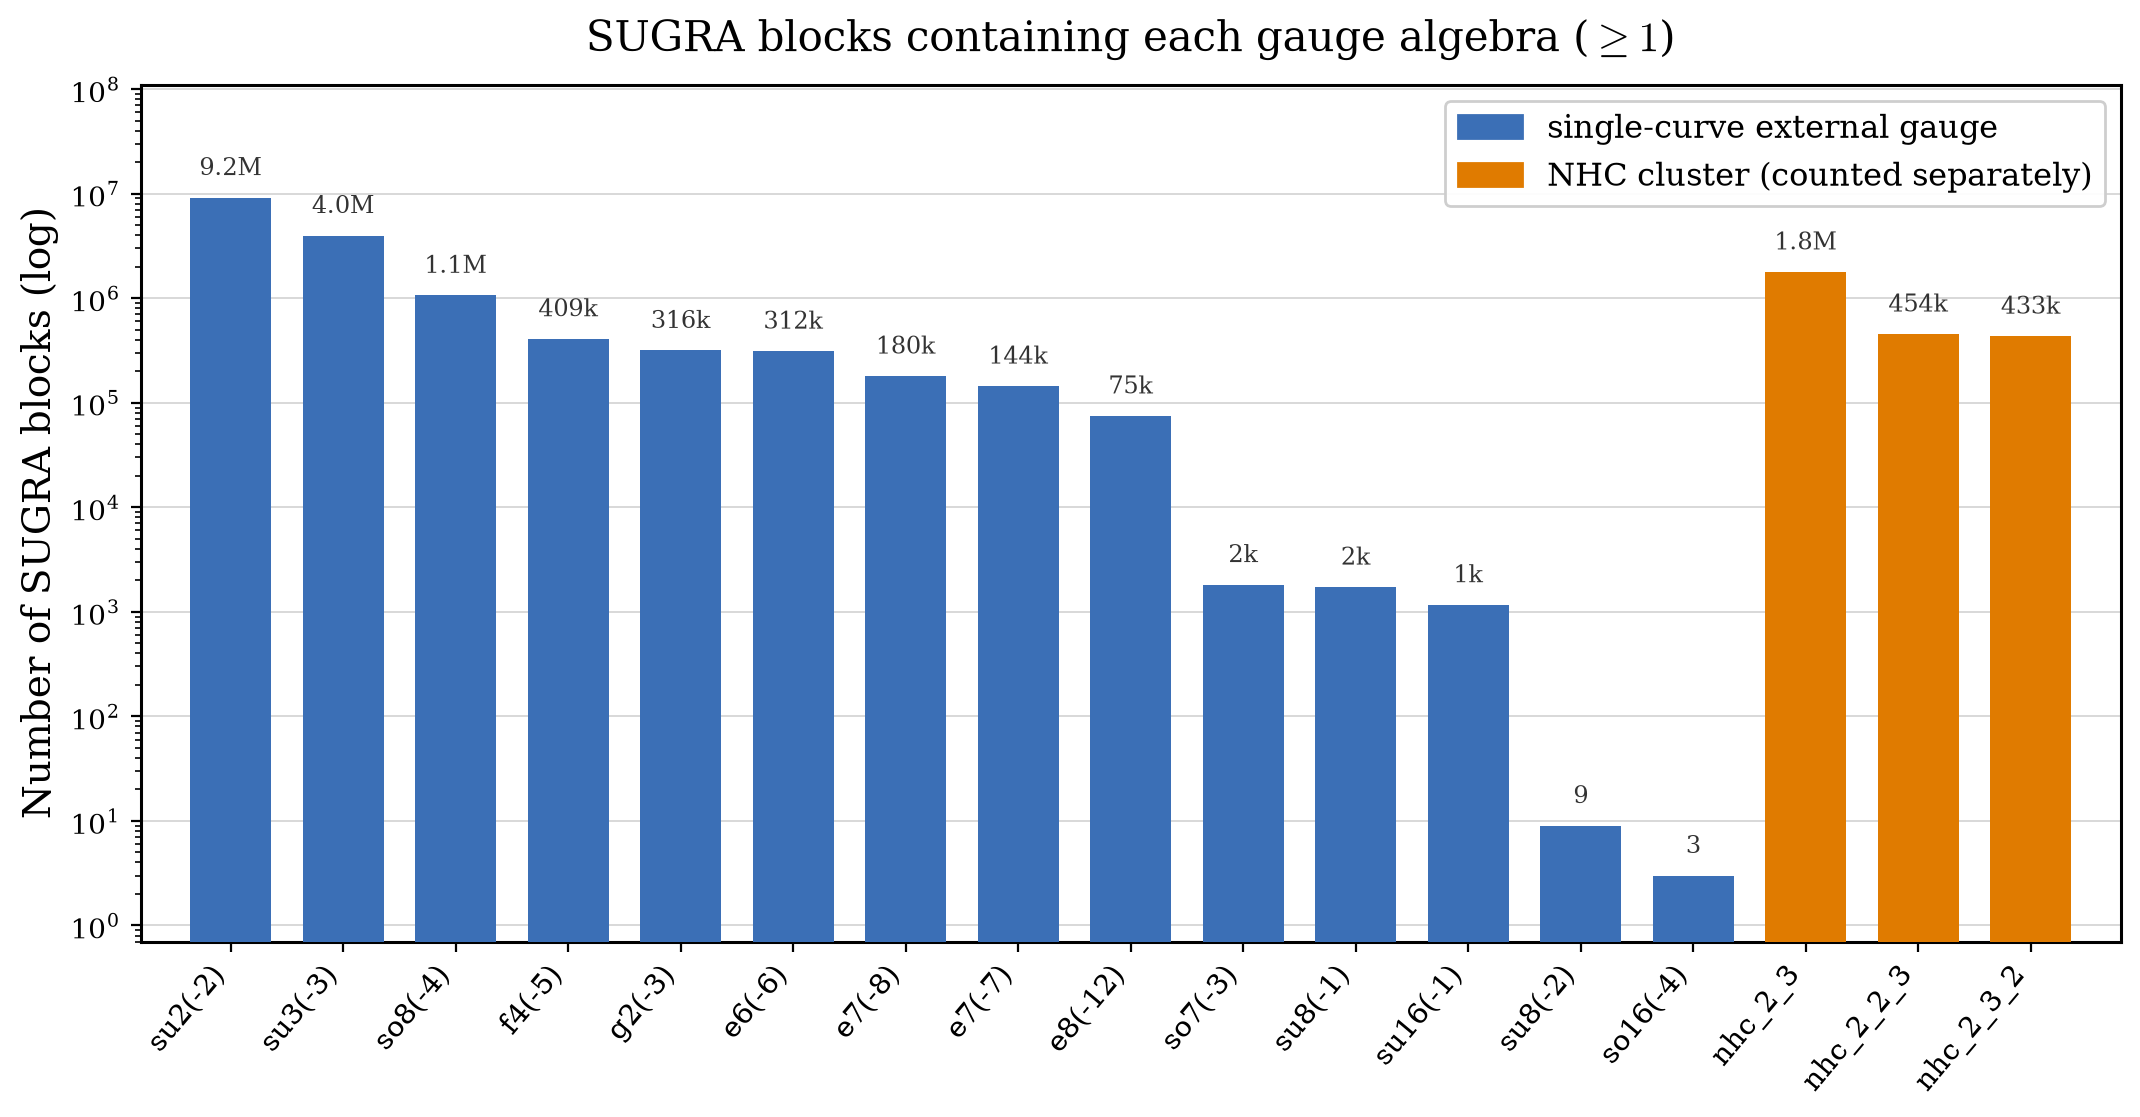
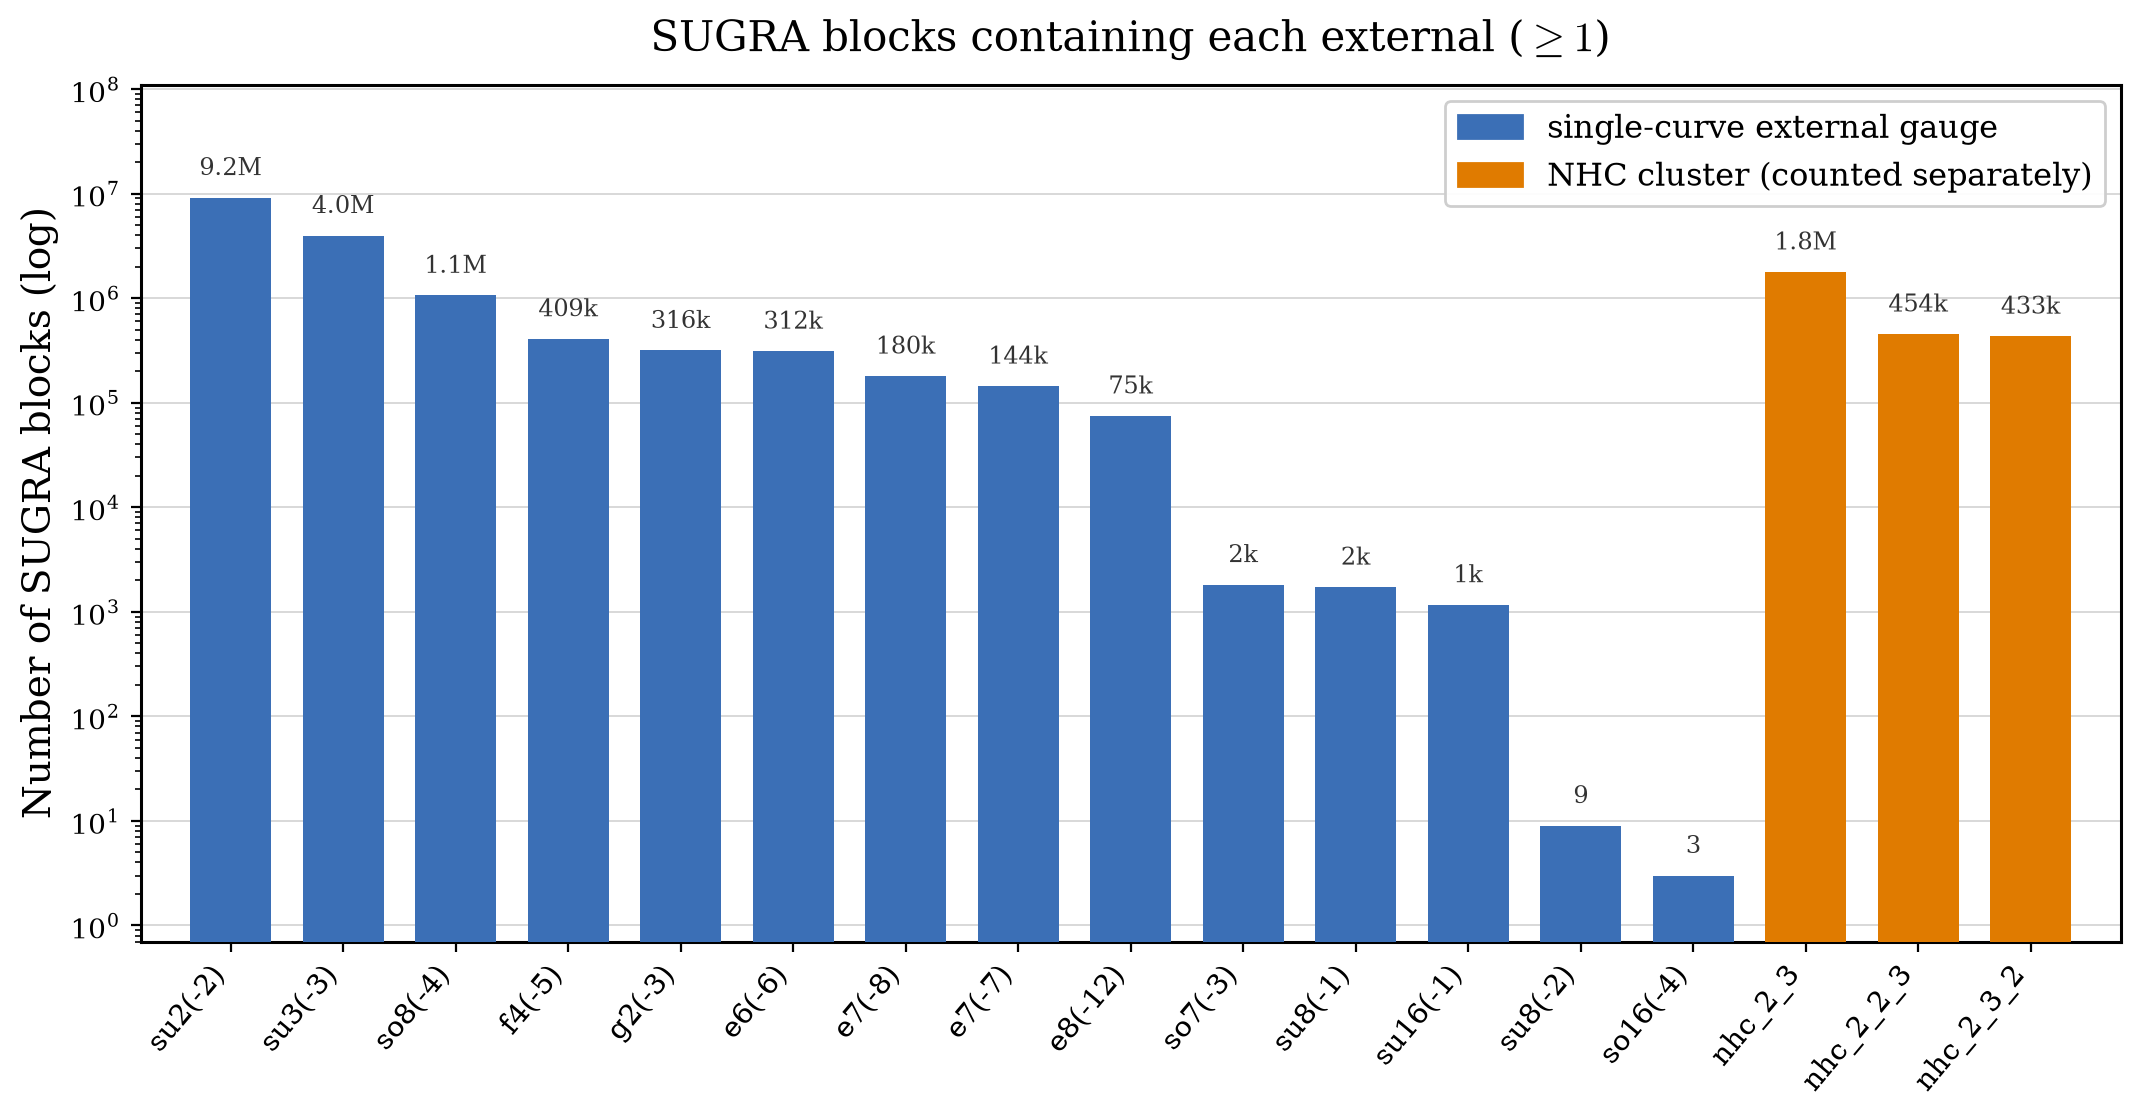
update figures 3

Changed region(s): [[0.2776, 0.0, 0.771, 0.0609]]

diff --git a/SUGRA/sugra_pipeline_share/sugra_toolkit/plot_gauge_census.py b/SUGRA/sugra_pipeline_share/sugra_toolkit/plot_gauge_census.py
@@ -64,7 +64,7 @@ ax.set_xlim(-0.8, len(labels) - 0.2)                 # side breathing room
 ax.set_xticks(range(len(labels)))
 ax.set_xticklabels(labels, rotation=50, ha="right", fontsize=10.5)
 ax.set_ylabel("Number of SUGRA blocks (log)", fontsize=14)
-ax.set_title(r"SUGRA blocks containing each gauge algebra ($\geq 1$)",
+ax.set_title(r"SUGRA blocks containing each external ($\geq 1$)",
              fontsize=15, pad=12)
 ax.grid(True, axis="y", color="#d8d8d8", linewidth=0.7, zorder=0)
 ax.set_ylim(0.7, max(vals) * 12)                     # generous top headroom

diff --git a/SUGRA/sugra_pipeline_share/sugra_toolkit/README.md b/SUGRA/sugra_pipeline_share/sugra_toolkit/README.md
@@ -244,7 +244,7 @@ Regenerate with `python make_plots.py` (writes `.png` + `.pdf`). Full set in
 [blocks vs #external](../gauge_out/Number_GBs_by_nExternal.png) ·
 [distinct patterns vs `T_H+1`](../gauge_out/Number_distinct_patterns.png) ·
 [distinct patterns vs `T`](../gauge_out/Number_distinct_patterns_by_T.png) —
-plus [blocks per gauge algebra](../stats_final/blocks_per_gauge.png),
+plus [blocks per external](../stats_final/blocks_per_gauge.png),
 [external frequency](../stats_final/external_frequency.png) and
 [frozen `T` vs #blocks](../Frozen%20blocks/analysis/frozen_T_vs_blocks.png).
 
